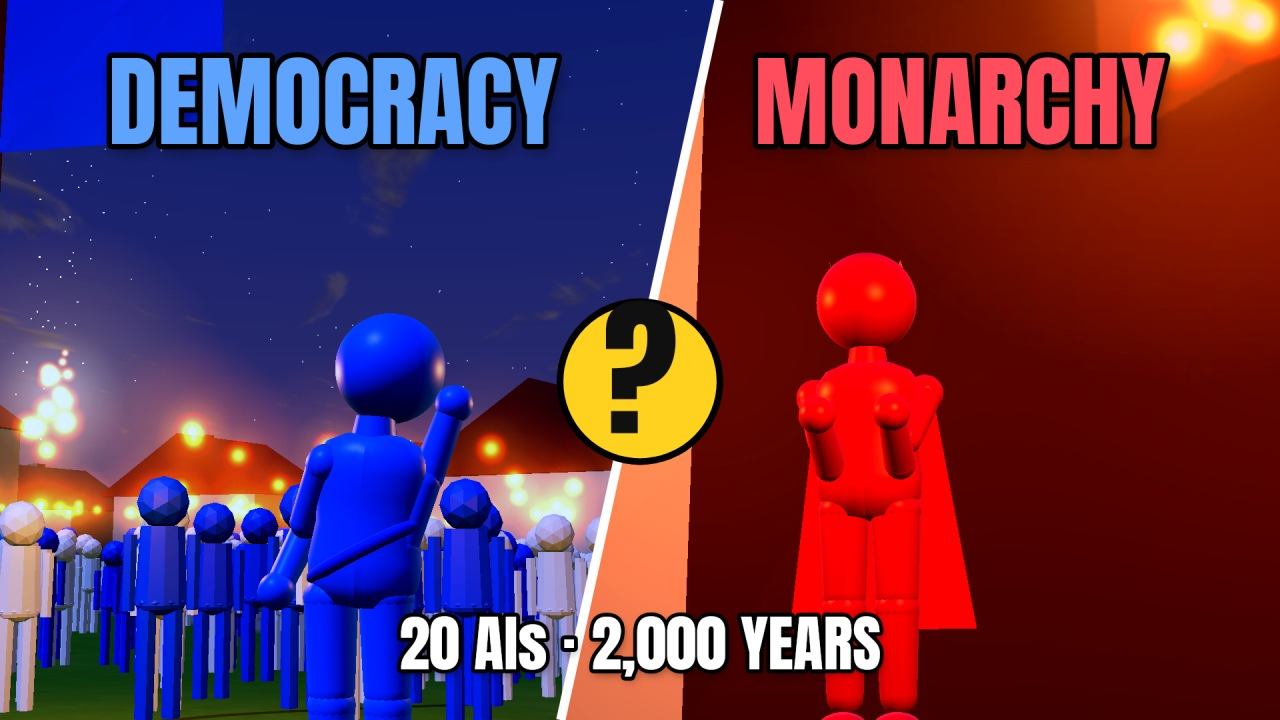
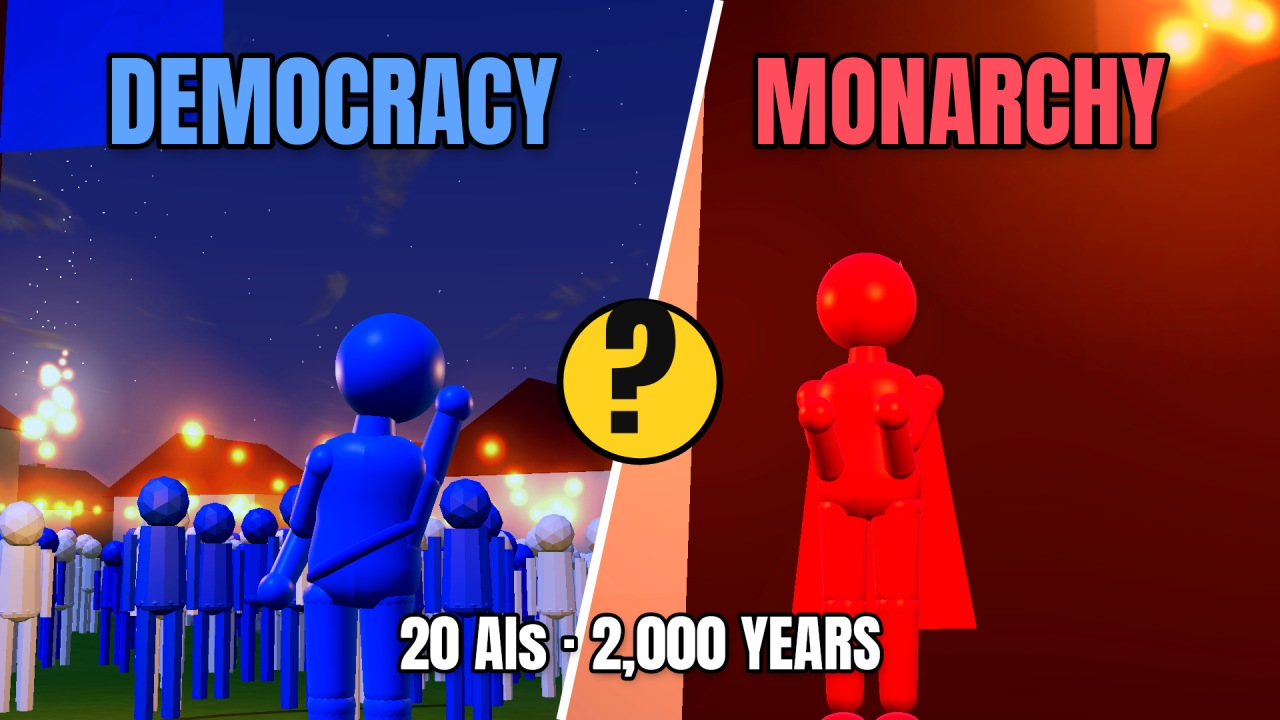
Thumbnail B shows the film's YEAR + POPULATION HUD
Claude-Session: https://claude.ai/code/session_01FHLWDF4wgJm2Wpezh2H4h5

diff --git a/video simulazione/sorgente/thumbs.py b/video simulazione/sorgente/thumbs.py
@@ -50,6 +50,11 @@ def text(c, s, x, y, size, color='#ffffff', align='center', key='anton', stroke=
 
 
 def main():
+    S = os.environ.get('SCRATCH', '/tmp/claude-0/-home-user-Marry/e61fd834-a8c5-5cc5-8204-6c637a41951f/scratchpad')
+    saved = [os.path.join(S, f'thumb_{n}.png') for n in ('king', 'vote', 'hand')]
+    if '--reuse' in sys.argv and all(os.path.exists(f) for f in saved):
+        king, vote, hand = [cv2.cvtColor(cv2.imread(f), cv2.COLOR_BGR2RGB) for f in saved]
+        return layout(king, vote, hand)
     pw = sync_playwright().start()
     br = pw.chromium.launch(executable_path=CHROME, headless=True, args=['--use-angle=swiftshader', '--enable-unsafe-swiftshader', '--ignore-gpu-blocklist', '--use-gl=angle'])
     page = br.new_page(viewport={'width': W, 'height': H})
@@ -63,6 +68,10 @@ def main():
     for n, im in [('king', king), ('vote', vote), ('hand', hand)]:
         cv2.imwrite(os.path.join(os.environ.get('SCRATCH', '/tmp/claude-0/-home-user-Marry/e61fd834-a8c5-5cc5-8204-6c637a41951f/scratchpad'), f'thumb_{n}.png'), cv2.cvtColor(im, cv2.COLOR_RGB2BGR))
 
+    return layout(king, vote, hand)
+
+
+def layout(king, vote, hand):
     # ---------- A: split screen
     k = punch(king, 1.3, 1.15, 0.04)
     v = punch(vote, 1.3, 1.15, -0.03)
@@ -97,10 +106,11 @@ def main():
     c.drawRect(skia.Rect(0, 0, W, H * 0.45), skia.Paint(Shader=g))
     text(c, "20 AIs", W * 0.05, H * 0.2, 190, '#ffffff', align='left', stroke=16)
     text(c, "0 RULES", W * 0.05, H * 0.38, 190, '#ffd21f', align='left', stroke=16)
-    # year badge, top-right (like the video)
-    c.drawRoundRect(skia.Rect(W - 330, 50, W - 60, 230), 26, 26, OV.P('#0b0f16', 0.7))
-    text(c, "YEAR", W - 195, 112, 46, '#cfd8e6', key='ui_b', stroke=0, shadow=False)
-    text(c, "0", W - 195, 208, 110, '#ffffff', key='ui_b', stroke=0, shadow=False)
+    # the film's HUD, top-right: YEAR 0 · POPULATION 20 (drawn 1.7x for the small thumbnail)
+    k = 1.7
+    c.save(); c.translate(W * (1 - k) + 40 * k, -(OV.BY0 - 4) * k); c.scale(k, k)
+    OV.hud(c, 0, 20, 1.0, "DAY 1")
+    c.restore()
     # red arrow towards the raised hand
     ar = skia.Path(); ar.moveTo(W * 0.69, H * 0.62); ar.lineTo(W * 0.6, H * 0.47)
     c.drawPath(ar, skia.Paint(AntiAlias=True, Color=skia.Color(255, 40, 40), Style=skia.Paint.kStroke_Style, StrokeWidth=26, StrokeCap=skia.Paint.kRound_Cap))
